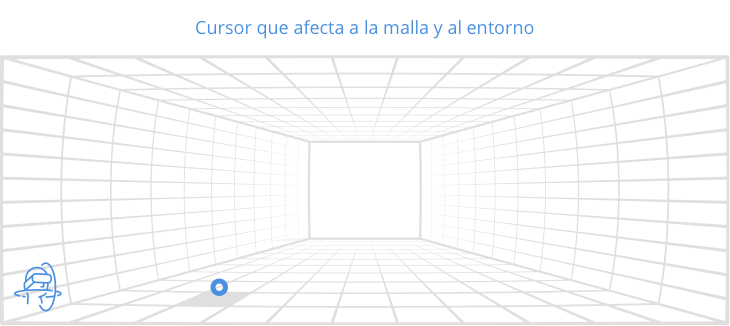
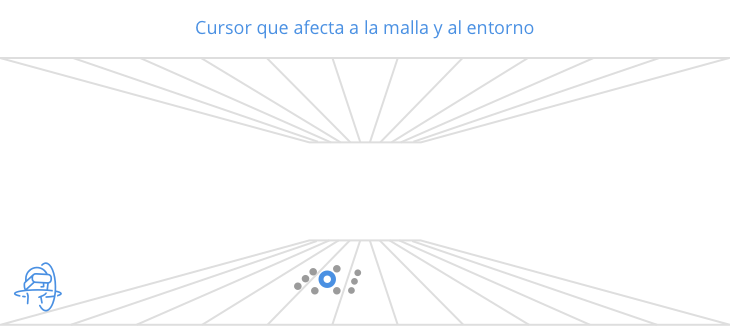
cambios

diff --git a/index.html b/index.html
@@ -148,7 +148,7 @@
 		        <div class="tim-row" id="cursores-row">
 
 	                <h2><strong>Cursores</strong></h2>
-	                <legend>sdsadsad</legend>
+	                
 	                <h3 class="space-top"><strong>Cursor de visión o gaze-pointer </strong></h3>
 	                
 	                <p>El gaze-pointer o puntero de mirada, es el puntero que el usuario controla con su orientación de cabeza e interactúa con objetos o elementos de interfaz de usuario como lo harían con un puntero del ratón. El evento "clic" puede venir desde un botón de gamepad o toque en el touchpad de Gear VR.</p>
@@ -160,7 +160,7 @@
 	                <!-- <div w3-include-html="./examples/cursorTail/cursorTail.html"></div> -->
 	                <img src="assets/img/interacciones/cursores/gazeCursoTrail.png" class="img-responsive" width="730" style="margin-bottom: 60px; margin-top: 40px;">
 			
-				</div>
+					</div>
 					
 	                 <h4><strong>Contexto</strong> </h4>
 	                 <h5>¿Que problema resuelve?</h5>
@@ -168,23 +168,35 @@
 	                <h4><strong>Solución</strong> </h4>
 	                <p>Dotar a el cursor de un rastro de partucilas cuando está en movimiento.</p><br>
 	                <h4><strong>Diseño</strong> </h4>
-	                <p>Ver ejemplo. <a href="examples/cursorTail/cursorTail.html">Video</a></p>
-	                <p>Ver ejemplo. <a href="http://">WEBGL</a></p> 
+	                <p>Ver ejemplo. <a href="examples/cursorTail/cursorTail.html"  target="_blank">Video</a></p>
 	                
 	                <h3 class="space-top" style="margin-top: 60px;"><strong>Cursor que afecta a la malla y al entorno</strong></h3>
 	                <legend></legend>
-	                <p>Otra manera de dejar rastro es que el cursor interactue por defecto con el entorno afectando a la malla y al entorno. Esto depende mucho del contexto pero puede ayudar a crear experiencias muy interesantes e inmersivas (cesped, agua, mallas, arena, fichas)</p>
+	                <p>Otra manera de dejar rastro es que el cursor interactue por defecto con el entorno afectando al entorno. Esto depende mucho del contexto pero puede ayudar a crear experiencias muy interesantes e inmersivas (cesped, agua, mallas, arena, fichas)</p>
 	                
 	                <img src="assets/img/interacciones/cursores/gazeCurosorEnvironment.png" width="730" class="img-responsive space-top">
 					
 	                 <h4><strong>Contexto</strong> </h4>
 	                 <h5>¿Que problema resuelve?</h5>
-	                <p>Mejora el seguimiento del cursor mientras el usario navega con el control de mirada.</p><br>
+	                <p>Ayuda a mejorar la experiencia y la sensacción de inmersión dependiendo del contexto</p><br>
 	                <h4><strong>Solución</strong> </h4>
-	                <p>Dotar a el cursor de un rastro de partucilas cuando está en movimiento.</p><br>
+	                <p>Rastro en la malla o en los objetos que se cruzan con el cursor de mirada </p><br>
 	                <h4><strong>Diseño</strong> </h4>
-	                <p>Ver ejemplo. <a href="http://">Video</a></p>
-	                <p>Ver ejemplo. <a href="http://">WEBGL</a></p> 
+	                <p>Ver ejemplo <a href="https://bear71vr.nfb.ca/" target="_blank">WEBGL</a></p> 
+
+	                <h3 class="space-top" style="margin-top: 60px;"><strong>Imantación suave del cursor al objeto accionable</strong></h3>
+	                <legend></legend>
+	                <p>El objeto accionable tiene un radio de acción, similar al magnetismo, en el que el cursor se queda pegado y evita que se salga del área de acción ante movimientos leves del usuario</p>
+	                
+	                <img src="assets/img/interacciones/cursores/gazeCursorImmobility.png" width="730" class="img-responsive space-top">
+					
+	                 <h4><strong>Contexto</strong> </h4>
+	                 <h5>¿Que problema resuelve?</h5>
+	                <p>Evita que el usuario pierda la posibilidad de actuar sobre un elemento por pequeños movimientos involuntarios o naturales</p><br>
+	                <h4><strong>Solución</strong> </h4>
+	                <p>....</p>
+	                <h4><strong>Diseño</strong> </h4>
+	                <p>Ver ejemplo <a href="https://bear71vr.nfb.ca/" target="_blank">WEBGL</a></p> 
 	                
 	               
 	        	</div>

diff --git a/examples/cursorTail/cursorTail.html b/examples/cursorTail/cursorTail.html
@@ -1,28 +1,29 @@
 <!DOCTYPE html>
 <html>
 	<head>
-		<meta charset="UTF-8"></meta>
+		<meta charset="UTF-8">
 		<title>cursorTail</title>
 		<script src="libs/flwebgl-0.2.min.js"></script>
-		<script src="assets/cursorTail_actions.js?1493880538286"></script>
+		<script src="assets/cursorTail_actions.js?1494427473145"></script>
 		<script>
 			var player, result = flwebgl.Player.S_OK;
 			var atlasList = [], content = undefined;
 
 			function loadContent() {
-				getAsset("assets/cursorTail.json?1493880538286", function (response) {content = JSON.parse(response); assetLoaded(); });
-				getAsset("assets/cursorTail_atlas.json?1493880538286", function (response) { atlasList.push({json:JSON.parse(response), image:"assets/cursorTail_atlas.png?1493880538286"}); assetLoaded(); });
+				getAsset("assets/cursorTail.json?1494427473145", function (response) {content = JSON.parse(response); assetLoaded(); });
+				getAsset("assets/cursorTail_atlas.json?1494427473145", function (response) { atlasList.push({json:JSON.parse(response), image:"assets/cursorTail_atlas.png?1494427473145"}); assetLoaded(); });
 			}
 
 			function assetLoaded() {
-				if (atlasList.length == 1) {
-					console.log('content', content);
+				if (atlasList.length == 1 && content) {
 					var canvas = document.getElementById("canvas");
 					player = new flwebgl.Player();
 
 					//Create textureatlas object for all the textures which you have
 					var textureAtlasList = [];
-					textureAtlasList.push(new flwebgl.TextureAtlas(atlasList[0].json, atlasList[0].image));
+					for (var i = 0; i < atlasList.length; i++) {
+						textureAtlasList.push(new flwebgl.TextureAtlas(atlasList[i].json, atlasList[i].image));
+					}
 
 					result = player.init(canvas, content, textureAtlasList, handleComplete);
 
@@ -42,15 +43,17 @@
 					player.setViewport(new flwebgl.geom.Rect(0, 0, w, h));
 
 					
-					if(player.getStage()) {
+					if(player.getStage())
+					{
 						player.getStage().addEventListener(flwebgl.events.Event.REMOVED, function(evt){
-							if(evt.getTarget().getName() === "___camera___instance" )
+							if( evt && evt.getTarget() && evt.getTarget().getName() === "___camera___instance" )
 								player.getStage().setLocalTransform(new flwebgl.geom.Matrix());
 						});
 						player.getStage().addEventListener(flwebgl.events.Event.ENTER_FRAME, function(evt) {
 							var stage = player.getStage();
 							var cameraInstance = stage.getChildAt(0);
-							if(cameraInstance !== null && cameraInstance.getName() === "___camera___instance") {
+							if(cameraInstance && cameraInstance.getName() === "___camera___instance")
+							{
 								var mat = cameraInstance.getLocalTransform();
 								var bounds = cameraInstance.getBounds();
 								var stageCenterX = Math.round(bounds.width)/2;
@@ -73,11 +76,8 @@
 
 				var req = new XMLHttpRequest();
 				req.onreadystatechange = function() {
-					if (req.readyState === 4) {
-						if (req.status === 200) {
-							callbk(req.responseText);
-						}
-					}
+					if (req.readyState == 4 && req.status == 200)
+						callbk(req.responseText);
 				};
 				req.open("GET", url, true);
 				req.send();
@@ -86,11 +86,15 @@
 			function handleComplete() {
 				if(result === flwebgl.Player.S_OK) {
 					player.play();
+
+					// ==> This is a good place to add code <==
 				}
 			}
 		</script>
 	</head>
 	<body onload="loadContent();">
-		<canvas id="canvas" style="border: none;"></canvas>
+		<canvas id="canvas" style="border: none; display: block; margin: 0 auto;"></canvas>
+		<div class="error" id="err_nowebglsupport" style="display:none;"><span>Su navegador no admite WebGL.</span>&nbsp;<span><a href="http://get.webgl.org">Consulte la compatibilidad de WebGL.</a></span></div>
+		<div class="error" id="err_extensionnotpresent" style="display:none;">Su navegador no admite una extensión requerida por WebGL.</div>
 	</body>
 </html>
